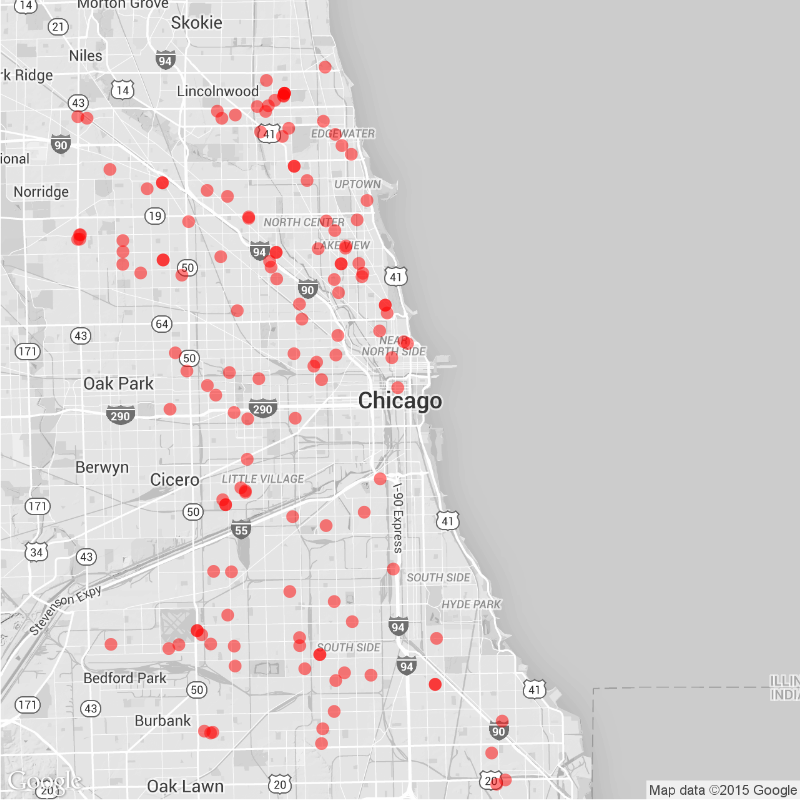
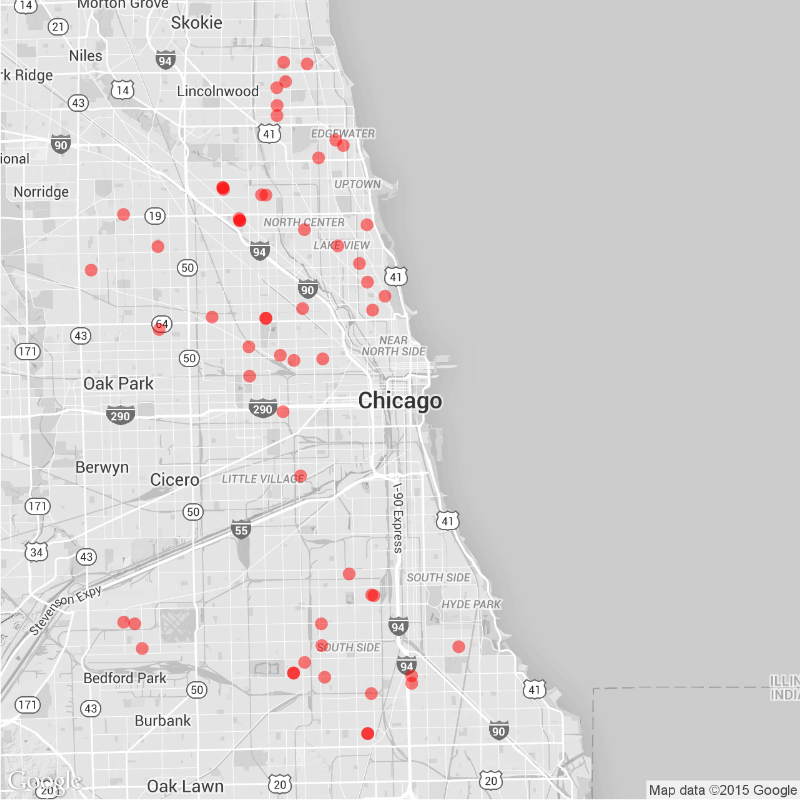
Daily Maps

diff --git a/daily.md b/daily.md
@@ -15,22 +15,22 @@ tags: Chicago NYC weekly daily rats
 
 ### Daily
 
-Yesterday (September 04), there were 147 calls to Chicago's 311 line about rats.
+Yesterday (September 05), there were 61 calls to Chicago's 311 line about rats.
 ![Chicago rat calls to 311 weekly map]({{ site.cityimages }}/daily/Chicago_Rat_Map_Daily.png)
 
 ### Weekly
-Between August 29 and September 04, there were 1026 calls to Chicago's 311 line about rats. The average number of weekly calls for this time of year is 889.
+Between August 30 and September 05, there were 1027 calls to Chicago's 311 line about rats. The average number of weekly calls for this time of year is 889.
 ![Chicago rat calls to 311 weekly map]({{ site.cityimages }}/daily/Chicago_Rat_Map_Weekly.png)
 ***
 # New York City <a id="nyc"><a>
 
 ### Daily
 
-Yesterday (September 04), there were 0 calls to New York City's 311 line about rats.
+Yesterday (September 05), there were 0 calls to New York City's 311 line about rats.
 ![NYC rat calls to 311 weekly map]({{ site.cityimages }}/daily/NYC_Rat_Map_Daily.png)
 
 ### Weekly
-Between August 29 and September 04, there were 0 calls to New York City's 311 line about rats. The average number of weekly calls for this time of year is 257.
+Between August 30 and September 05, there were 0 calls to New York City's 311 line about rats. The average number of weekly calls for this time of year is 257.
 ![NYC rat calls to 311 weekly map]({{ site.cityimages }}/daily/NYC_Rat_Map_Weekly.png)
 
 Each red dot represents one call about a rat seen in that location. The dots are transparent, so multiple calls from one location will be seen as a solid dot. The usual caveats apply: more calls do not necessarily mean that there are more rats in that location than other parts of the city. A cluster of dots could indicate that one resident is unusually vocal about rodents in his or her neighborhood. Also, more densely populated neighborhoods tend to make more calls to 311.
